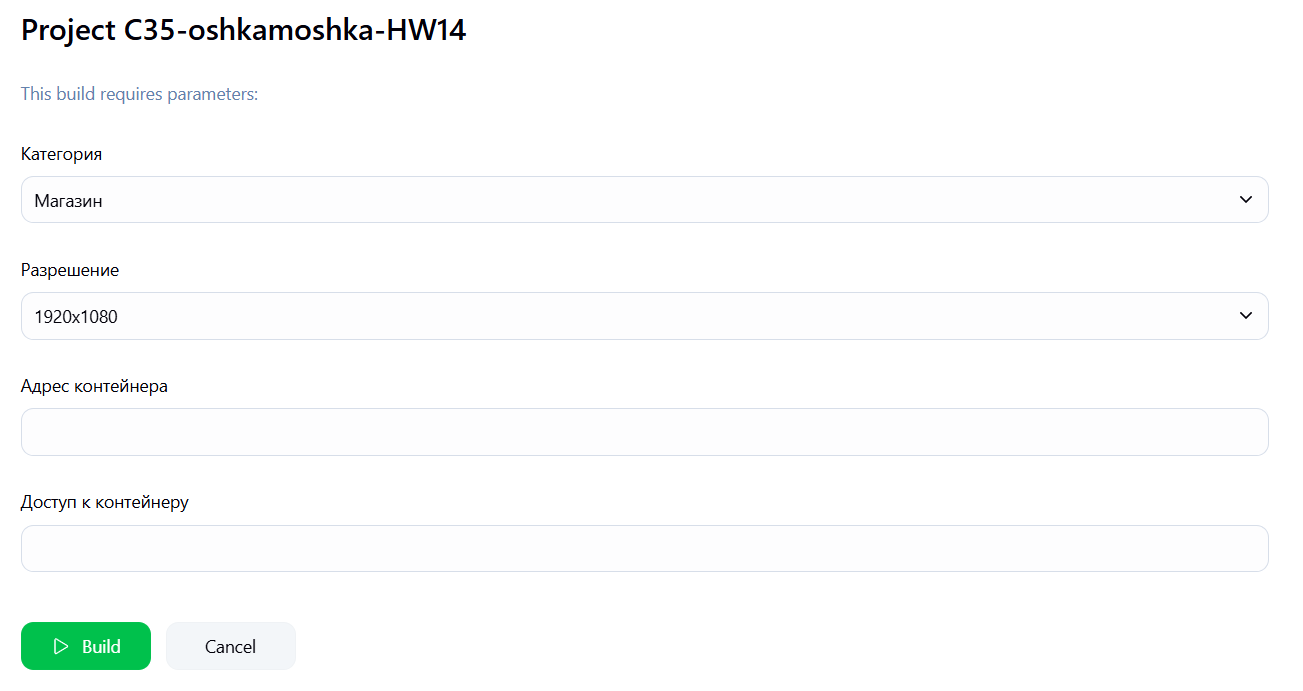
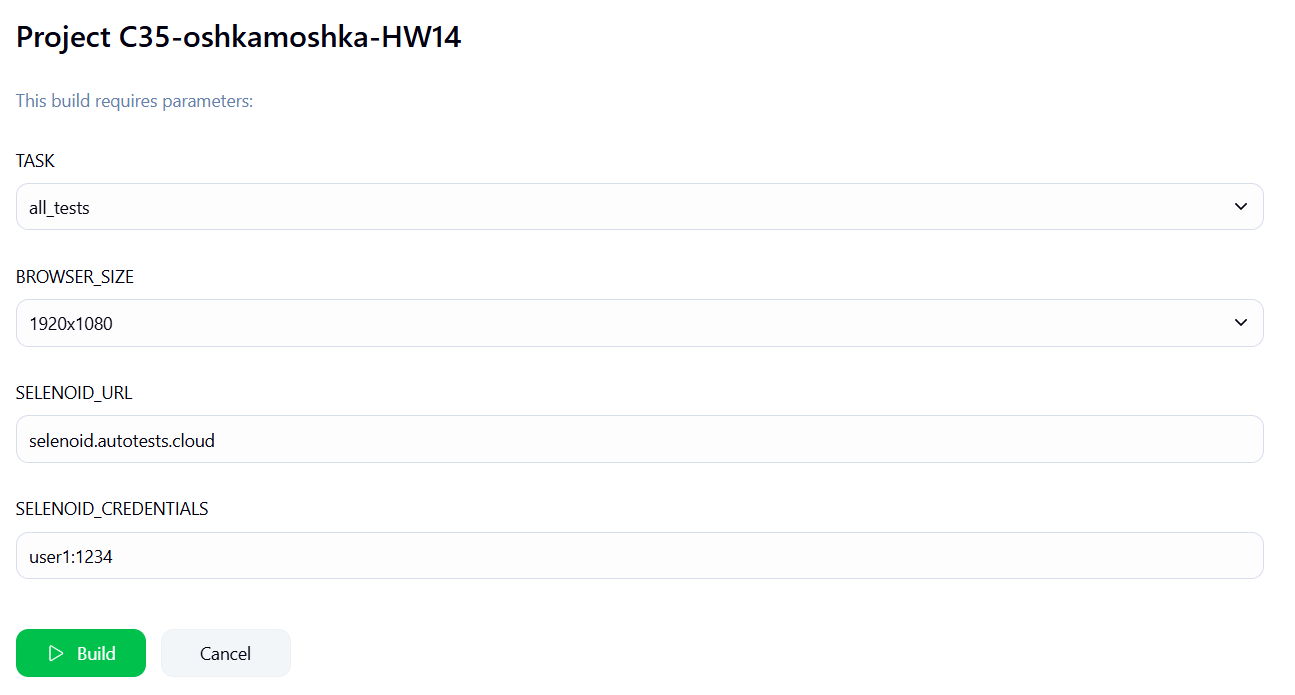
added video, updated config

diff --git a/src/test/java/tests/TestBase.java b/src/test/java/tests/TestBase.java
@@ -50,7 +50,7 @@ public class TestBase {
         Attach.pageSource();
         Attach.browserConsoleLogs();
         Attach.addVideo();
-        //closeWebDriver();
+        closeWebDriver();
     }
 
 }
